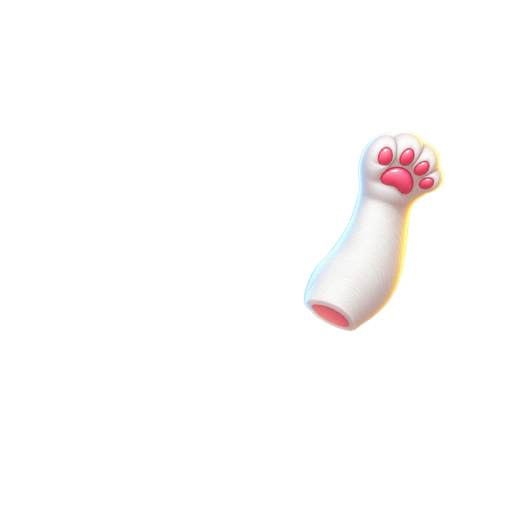
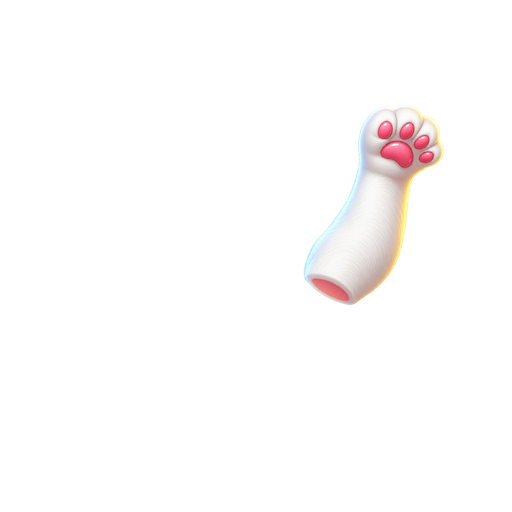
Put the maneki-neko's paw behind it, where a severed leg belongs
The artwork is a whole cat plus a disembodied foreleg. The body was specified to
come with a bare right shoulder for the paw layer to sit on — ART-BRIEF is
explicit about it — and came back as a complete cat instead. Drawn over that
body, the spare leg lies across the cat's chest with its cut end showing as a
pink oval hanging in mid-air, which is what looked so odd.

Drawing the paw BEHIND the body fixes it without touching the art: the body
hides the cut, only the raised paw clears the shoulder, and the beckon swings
the forearm out from behind and back exactly as a real one does. The paw layer
is raised 0.05 of the canvas as well, so at rest it reads as a paw held up
beside the head rather than one tucked at the shoulder, and its pivot follows it
up to 0.59 so the limb still turns about the joint.

Checked at 0, 13 and 26 degrees that the cut end never emerges from behind the
body at any point in the swing.

The real fix is still a body drawn with the shoulder bare, whenever that art
gets made. This makes the art we have read correctly in the meantime.

Changed region(s): [[0.5938, 0.1875, 0.875, 0.6562]]

diff --git a/charm-list.js b/charm-list.js
@@ -95,9 +95,17 @@ export const CHARMS = [
         story: 'A beckoning cat that invites good fortune in. The raised paw is a ' +
                'come-here, not a wave — the gesture reads backwards to most of the world.',
         ritual: 'Beckon',
+        /* The paw is listed FIRST, so it is drawn behind the body.
+         *
+         * The artwork is a whole cat plus a severed foreleg — the body was
+         * meant to come with a bare right shoulder for the paw to sit on, and
+         * did not. Over the body, that leg lies across the cat's chest with the
+         * cut end showing as a pink oval in mid-air. Behind it, the body hides
+         * the cut, only the raised paw clears the shoulder, and the beckon
+         * swings the forearm out from behind exactly as a real one does. */
         parts: [
+            {key: 'paw', file: 'neko-paw.svg', pivot: [0.54, 0.59]},
             {key: 'body', file: 'neko-body.svg'},
-            {key: 'paw', file: 'neko-paw.svg', pivot: [0.54, 0.64]},
         ],
         hangPivot: [0.5, 0.1],
         cord: {rope: '#8e1420'},
